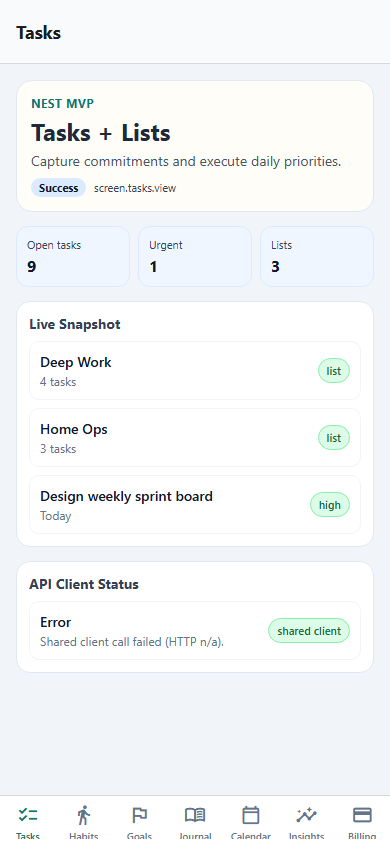
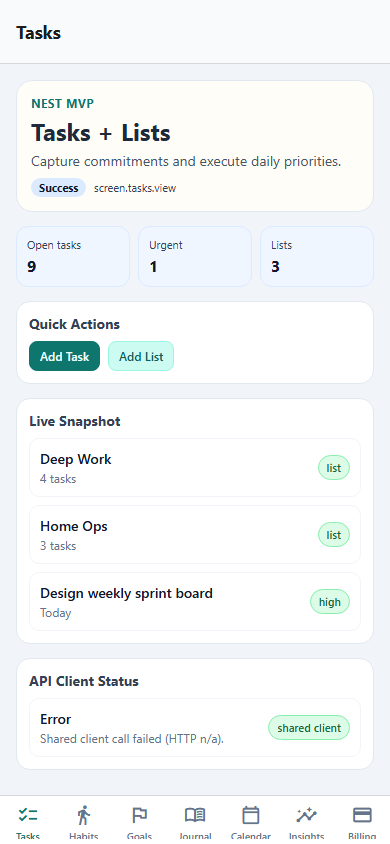
feat(mobile): apply legacy UX visual parity fixes wave 2

diff --git a/apps/mobile/components/mvp/ModuleScreen.tsx b/apps/mobile/components/mvp/ModuleScreen.tsx
@@ -23,6 +23,10 @@ type ModuleScreenProps = {
   telemetry: TelemetryEventName;
   metrics: Metric[];
   rows: Row[];
+  quickActions?: Array<{
+    label: string;
+    variant?: 'primary' | 'secondary';
+  }>;
   connectivity?: {
     state: UiAsyncState;
     detail: string;
@@ -103,6 +107,7 @@ export function ModuleScreen({
   telemetry,
   metrics,
   rows,
+  quickActions,
   connectivity,
   conflicts,
   connections,
@@ -127,6 +132,32 @@ export function ModuleScreen({
           </View>
         ))}
       </View>
+
+      {quickActions && quickActions.length > 0 ? (
+        <View style={styles.panel}>
+          <Text style={styles.panelTitle}>Quick Actions</Text>
+          <View style={styles.actionRow}>
+            {quickActions.map((action) => (
+              <Pressable
+                key={action.label}
+                style={[
+                  styles.actionButton,
+                  action.variant === 'primary' ? styles.actionButtonPrimary : styles.actionButtonSecondary,
+                ]}
+              >
+                <Text
+                  style={[
+                    styles.actionButtonText,
+                    action.variant === 'primary' ? styles.actionButtonTextPrimary : styles.actionButtonTextSecondary,
+                  ]}
+                >
+                  {action.label}
+                </Text>
+              </Pressable>
+            ))}
+          </View>
+        </View>
+      ) : null}
 
       <View style={styles.panel}>
         <Text style={styles.panelTitle}>Live Snapshot</Text>
@@ -178,7 +209,7 @@ export function ModuleScreen({
                   <View style={styles.rowTextWrap}>
                     <Text style={styles.rowTitle}>{conflict.provider}</Text>
                     <Text style={styles.rowDetail}>
-                      {conflict.entityType} • {conflict.fields.join(', ')}
+                      {conflict.entityType} - {conflict.fields.join(', ')}
                     </Text>
                   </View>
                   <View style={styles.badge}>
@@ -225,9 +256,13 @@ export function ModuleScreen({
                   <View style={styles.rowTextWrap}>
                     <Text style={styles.rowTitle}>{connection.provider}</Text>
                     <Text style={styles.rowDetail}>Status: {connection.status}</Text>
+                    <Text style={styles.scopeHeading}>Connection Scopes</Text>
                     <Text style={styles.rowDetail}>
                       Granted: {connection.scopes.length > 0 ? connection.scopes.join(', ') : 'none'}
                     </Text>
+                    {connection.status === 'connected' ? (
+                      <Text style={styles.scopeHeading}>Scope Review</Text>
+                    ) : null}
                     {connection.status === 'connected' ? (
                       <Text style={review.level === 'warn' ? styles.scopeWarnText : styles.scopeOkText}>
                         {review.message}
@@ -407,11 +442,17 @@ const styles = StyleSheet.create({
   },
   actionButton: {
     borderWidth: 1,
-    borderColor: '#99f6e4',
     borderRadius: 8,
-    backgroundColor: '#ccfbf1',
     paddingVertical: 6,
     paddingHorizontal: 10,
+  },
+  actionButtonPrimary: {
+    borderColor: '#0f766e',
+    backgroundColor: '#0f766e',
+  },
+  actionButtonSecondary: {
+    borderColor: '#99f6e4',
+    backgroundColor: '#ccfbf1',
   },
   actionButtonDisabled: {
     opacity: 0.6,
@@ -419,7 +460,18 @@ const styles = StyleSheet.create({
   actionButtonText: {
     fontSize: 12,
     fontWeight: '600',
+  },
+  actionButtonTextPrimary: {
+    color: '#ecfeff',
+  },
+  actionButtonTextSecondary: {
     color: '#115e59',
+  },
+  scopeHeading: {
+    marginTop: 2,
+    fontSize: 11,
+    fontWeight: '700',
+    color: '#334155',
   },
   scopeWarnText: {
     fontSize: 12,
@@ -430,3 +482,4 @@ const styles = StyleSheet.create({
     color: '#166534',
   },
 });
+

diff --git a/apps/mobile/app/(tabs)/calendar.tsx b/apps/mobile/app/(tabs)/calendar.tsx
@@ -120,6 +120,10 @@ export default function CalendarScreen() {
       telemetry={calendarData.telemetry}
       metrics={calendarData.metrics}
       rows={calendarData.rows}
+      quickActions={[
+        { label: 'Add Event', variant: 'primary' },
+        { label: 'Force Sync', variant: 'secondary' },
+      ]}
       conflicts={{
         items: conflicts.map((conflict) => ({
           id: conflict.id,

diff --git a/apps/mobile/app/(tabs)/index.tsx b/apps/mobile/app/(tabs)/index.tsx
@@ -48,6 +48,10 @@ export default function TasksScreen() {
       telemetry={tasksData.telemetry}
       metrics={tasksData.metrics}
       rows={tasksData.rows}
+      quickActions={[
+        { label: 'Add Task', variant: 'primary' },
+        { label: 'Add List', variant: 'secondary' },
+      ]}
       connectivity={{
         state: apiState,
         detail: apiDetail,

diff --git a/apps/mobile/app/(tabs)/insights.tsx b/apps/mobile/app/(tabs)/insights.tsx
@@ -85,6 +85,10 @@ export default function InsightsScreen() {
       telemetry={telemetry}
       metrics={metrics}
       rows={rows}
+      quickActions={[
+        { label: 'Refresh Trends', variant: 'primary' },
+        { label: 'Export Snapshot', variant: 'secondary' },
+      ]}
       connectivity={{
         state: apiState,
         detail: apiDetail,

diff --git a/apps/mobile/app/(tabs)/billing.tsx b/apps/mobile/app/(tabs)/billing.tsx
@@ -68,6 +68,10 @@ export default function BillingScreen() {
       telemetry={telemetry}
       metrics={metrics}
       rows={rows}
+      quickActions={[
+        { label: 'Start Trial', variant: 'primary' },
+        { label: 'Manage Plan', variant: 'secondary' },
+      ]}
       connectivity={{
         state: apiState,
         detail: apiDetail,

diff --git a/.codex/context/TASK_BOARD.md b/.codex/context/TASK_BOARD.md
@@ -218,6 +218,15 @@ Last updated: 2026-03-21
     - Refreshed web parity captures for `NEST-021`, `NEST-037`, `NEST-041`,
       `NEST-042`, `NEST-050`, `NEST-058`, `NEST-068` in
       `docs/ux_parity_evidence/2026-03-21/web/*.png`.
+    - Mobile parity fixes (wave 2) applied across legacy surfaces:
+      `apps/mobile/components/mvp/ModuleScreen.tsx`,
+      `apps/mobile/app/(tabs)/index.tsx`,
+      `apps/mobile/app/(tabs)/calendar.tsx`,
+      `apps/mobile/app/(tabs)/insights.tsx`,
+      `apps/mobile/app/(tabs)/billing.tsx`.
+    - Refreshed mobile parity captures for `NEST-022`, `NEST-037`, `NEST-041`,
+      `NEST-042`, `NEST-050`, `NEST-068` in
+      `docs/ux_parity_evidence/2026-03-21/mobile/*.png`.
 
 - [ ] NEST-109 Deliver localization foundation (en/pl) across API, web, and mobile
   - Status: BACKLOG

diff --git a/.codex/context/PROJECT_STATE.md b/.codex/context/PROJECT_STATE.md
@@ -293,7 +293,8 @@ Last updated: 2026-03-21
   `docs/ux_parity_evidence/2026-03-21/mobile/*.png`)
 - `NEST-106` in progress: web parity fixes (wave 1) are implemented with
   stronger action-entry CTAs, improved calendar integration hierarchy, and
-  refreshed web parity captures for legacy UX-heavy tasks
+  refreshed web parity captures for legacy UX-heavy tasks; mobile parity fixes
+  (wave 2) are now also applied with refreshed mobile parity captures
 - `NEST-031` completed: post-MVP integration contract versioning strategy
   documented with compatibility, migration, rollback, and deprecation rules and
   linked from integration docs
